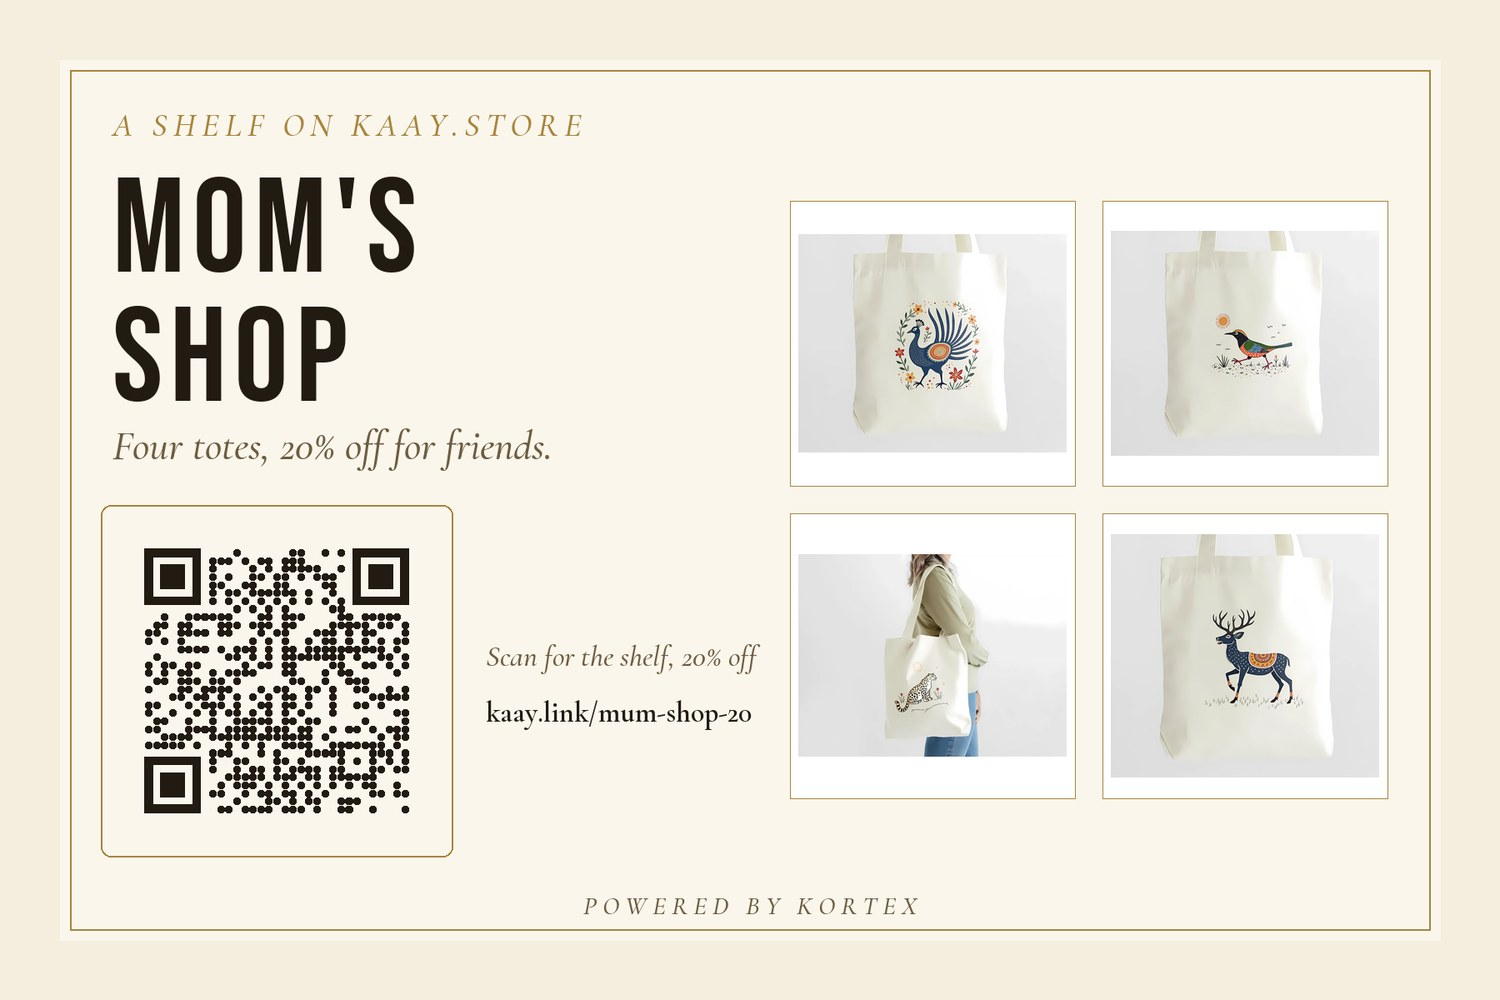
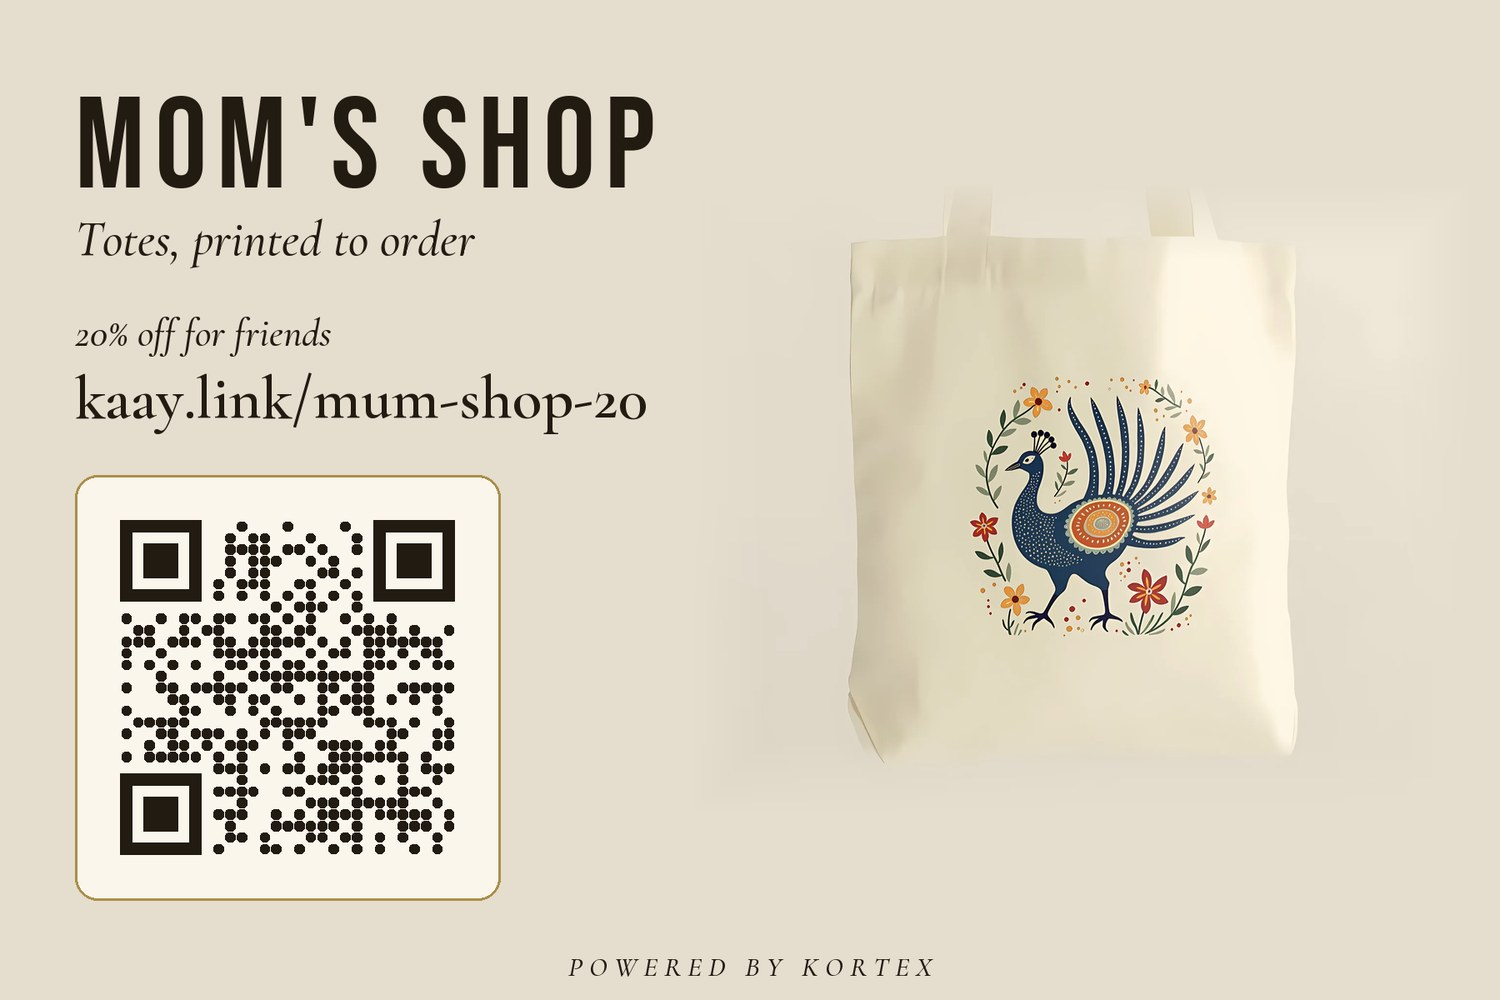
Kortex cards: one design for all three, codes a phone reads from the screen
run-25 Forge cards: same title size, same column (title, one line, what
the code does, the address), same paper panel for the code at the bottom
left, 'Powered by Kortex' along the bottom, no brand mark, no side line,
no nested frames. Mom's Shop shows one tote; the gathering is Baithak.
Hero 'by kaayko' no longer sits on a dark box.

diff --git a/link-site/index.html b/link-site/index.html
@@ -142,7 +142,7 @@ h1.hero-title em { font-style:normal; color:var(--gold-bright) }
 .hero-side { padding-top:var(--sp-3) }
 .hero-mark-big { font-family:var(--display); font-weight:400; font-size:clamp(3.2rem,6vw,5.4rem); letter-spacing:.09em; line-height:.9; text-transform:uppercase; color:var(--fg); text-shadow:var(--glow-text); margin:0 0 .3em }
 .hero-side .hero-seam { width:min(100%,260px); height:1px; margin:0 0 var(--sp-4); background:linear-gradient(to right, var(--gold-line) 0%, var(--gold-line) 28%, transparent 28%, transparent 72%, var(--gold-line) 72%, var(--gold-line) 100%); box-shadow:var(--glow-line); position:relative }
-.hero-side .hero-mark { position:absolute; top:50%; left:50%; transform:translate(-50%,-50%); color:var(--gold); font-style:italic; font-size:.72rem; letter-spacing:.5em; text-transform:lowercase; white-space:nowrap; padding:0 8px; background:#0a1233 }
+.hero-side .hero-mark { position:absolute; top:50%; left:50%; transform:translate(-50%,-50%); color:var(--gold); font-style:italic; font-size:.72rem; letter-spacing:.5em; text-transform:lowercase; white-space:nowrap; padding:0 8px }
 .hero-what { font-family:var(--serif); font-weight:500; font-size:clamp(1.25rem,2.1vw,1.6rem); line-height:1.25; color:var(--fg); margin:0 0 var(--sp-4) }
 .hero-what em { font-style:italic; color:var(--gold-bright) }
 .hero-facts { list-style:none; margin:0; padding:0; display:grid; gap:8px; font-style:italic; font-size:.98rem; color:var(--muted); line-height:1.45 }
@@ -635,7 +635,7 @@ details.options details.options { margin:var(--sp-4) 0 0; padding-top:var(--sp-2
   <div class="cases">
     <article class="case">
       <div class="kcard" role="button" tabindex="0" aria-label="Lake McDonald postcard. Activate to turn it over." data-flip>
-        <div class="kface front"><img src="/assets/cards/lake-mcdonald-postcard.jpg" alt="Lake McDonald postcard" width="1200" height="800" loading="lazy"></div>
+        <div class="kface front"><img src="/assets/cards/lake-mcdonald-postcard.jpg?v=25" alt="Lake McDonald postcard" width="1200" height="800" loading="lazy"></div>
         <div class="kface back">
           <h3>Rohan, who paddles every lake he can drive to</h3>
           <p class="kstory">He <a class="klink" href="#make" data-stop>creates</a> one code per lake and pastes the sticker at the put-in, so the next paddler gets the day&rsquo;s score before the boat is off the roof.</p>
@@ -646,7 +646,7 @@ details.options details.options { margin:var(--sp-4) 0 0; padding-top:var(--sp-2
     </article>
     <article class="case">
       <div class="kcard" role="button" tabindex="0" aria-label="Mom's Shop card. Activate to turn it over." data-flip>
-        <div class="kface front"><img src="/assets/cards/moms-shop-card.jpg" alt="Mom's Shop card" width="1200" height="800" loading="lazy"></div>
+        <div class="kface front"><img src="/assets/cards/moms-shop-card.jpg?v=25" alt="Mom's Shop card" width="1200" height="800" loading="lazy"></div>
         <div class="kface back">
           <h3>Asha, 60, who opened her shelf this summer</h3>
           <p class="kstory">Four totes on kaay.store. Friends get her card and 20% off at the till. She <a class="klink" href="#manage" data-demo-code="KX-DEMO-SHELF" data-stop>tracks</a> who used it, from which stall, and at what hour.</p>
@@ -657,7 +657,7 @@ details.options details.options { margin:var(--sp-4) 0 0; padding-top:var(--sp-2
     </article>
     <article class="case">
       <div class="kcard" role="button" tabindex="0" aria-label="An evening of music card. Activate to turn it over." data-flip>
-        <div class="kface front"><img src="/assets/cards/music-gathering-card.jpg" alt="An evening of music card" width="1200" height="800" loading="lazy"></div>
+        <div class="kface front"><img src="/assets/cards/music-gathering-card.jpg?v=25" alt="An evening of music card" width="1200" height="800" loading="lazy"></div>
         <div class="kface back">
           <h3>Rehan, who hosts an evening of music once a month</h3>
           <p class="kstory">One card on the grocery board, and the same code <a class="klink" href="#manage" data-demo-code="KX-DEMO-BAITHAK" data-stop>shared</a> on the neighbourhood group. After dark it points at the booking page; by day, the details.</p>

diff --git a/src/kortex.html b/src/kortex.html
@@ -142,7 +142,7 @@ h1.hero-title em { font-style:normal; color:var(--gold-bright) }
 .hero-side { padding-top:var(--sp-3) }
 .hero-mark-big { font-family:var(--display); font-weight:400; font-size:clamp(3.2rem,6vw,5.4rem); letter-spacing:.09em; line-height:.9; text-transform:uppercase; color:var(--fg); text-shadow:var(--glow-text); margin:0 0 .3em }
 .hero-side .hero-seam { width:min(100%,260px); height:1px; margin:0 0 var(--sp-4); background:linear-gradient(to right, var(--gold-line) 0%, var(--gold-line) 28%, transparent 28%, transparent 72%, var(--gold-line) 72%, var(--gold-line) 100%); box-shadow:var(--glow-line); position:relative }
-.hero-side .hero-mark { position:absolute; top:50%; left:50%; transform:translate(-50%,-50%); color:var(--gold); font-style:italic; font-size:.72rem; letter-spacing:.5em; text-transform:lowercase; white-space:nowrap; padding:0 8px; background:#0a1233 }
+.hero-side .hero-mark { position:absolute; top:50%; left:50%; transform:translate(-50%,-50%); color:var(--gold); font-style:italic; font-size:.72rem; letter-spacing:.5em; text-transform:lowercase; white-space:nowrap; padding:0 8px }
 .hero-what { font-family:var(--serif); font-weight:500; font-size:clamp(1.25rem,2.1vw,1.6rem); line-height:1.25; color:var(--fg); margin:0 0 var(--sp-4) }
 .hero-what em { font-style:italic; color:var(--gold-bright) }
 .hero-facts { list-style:none; margin:0; padding:0; display:grid; gap:8px; font-style:italic; font-size:.98rem; color:var(--muted); line-height:1.45 }
@@ -635,7 +635,7 @@ details.options details.options { margin:var(--sp-4) 0 0; padding-top:var(--sp-2
   <div class="cases">
     <article class="case">
       <div class="kcard" role="button" tabindex="0" aria-label="Lake McDonald postcard. Activate to turn it over." data-flip>
-        <div class="kface front"><img src="/assets/cards/lake-mcdonald-postcard.jpg" alt="Lake McDonald postcard" width="1200" height="800" loading="lazy"></div>
+        <div class="kface front"><img src="/assets/cards/lake-mcdonald-postcard.jpg?v=25" alt="Lake McDonald postcard" width="1200" height="800" loading="lazy"></div>
         <div class="kface back">
           <h3>Rohan, who paddles every lake he can drive to</h3>
           <p class="kstory">He <a class="klink" href="#make" data-stop>creates</a> one code per lake and pastes the sticker at the put-in, so the next paddler gets the day&rsquo;s score before the boat is off the roof.</p>
@@ -646,7 +646,7 @@ details.options details.options { margin:var(--sp-4) 0 0; padding-top:var(--sp-2
     </article>
     <article class="case">
       <div class="kcard" role="button" tabindex="0" aria-label="Mom's Shop card. Activate to turn it over." data-flip>
-        <div class="kface front"><img src="/assets/cards/moms-shop-card.jpg" alt="Mom's Shop card" width="1200" height="800" loading="lazy"></div>
+        <div class="kface front"><img src="/assets/cards/moms-shop-card.jpg?v=25" alt="Mom's Shop card" width="1200" height="800" loading="lazy"></div>
         <div class="kface back">
           <h3>Asha, 60, who opened her shelf this summer</h3>
           <p class="kstory">Four totes on kaay.store. Friends get her card and 20% off at the till. She <a class="klink" href="#manage" data-demo-code="KX-DEMO-SHELF" data-stop>tracks</a> who used it, from which stall, and at what hour.</p>
@@ -657,7 +657,7 @@ details.options details.options { margin:var(--sp-4) 0 0; padding-top:var(--sp-2
     </article>
     <article class="case">
       <div class="kcard" role="button" tabindex="0" aria-label="An evening of music card. Activate to turn it over." data-flip>
-        <div class="kface front"><img src="/assets/cards/music-gathering-card.jpg" alt="An evening of music card" width="1200" height="800" loading="lazy"></div>
+        <div class="kface front"><img src="/assets/cards/music-gathering-card.jpg?v=25" alt="An evening of music card" width="1200" height="800" loading="lazy"></div>
         <div class="kface back">
           <h3>Rehan, who hosts an evening of music once a month</h3>
           <p class="kstory">One card on the grocery board, and the same code <a class="klink" href="#manage" data-demo-code="KX-DEMO-BAITHAK" data-stop>shared</a> on the neighbourhood group. After dark it points at the booking page; by day, the details.</p>
